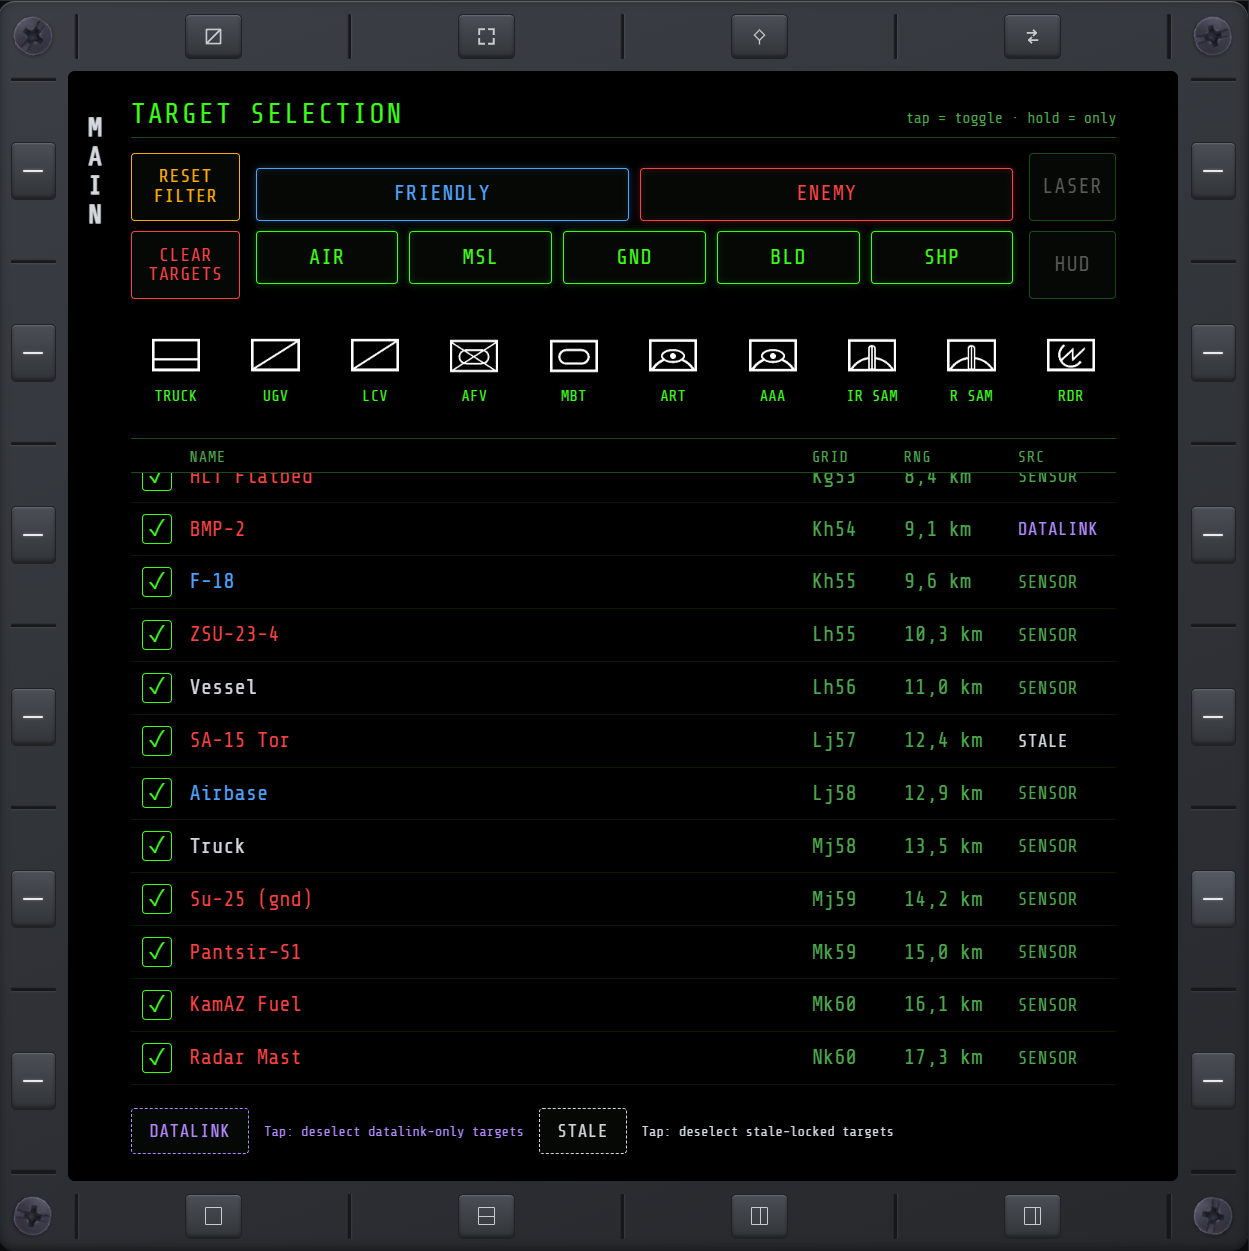
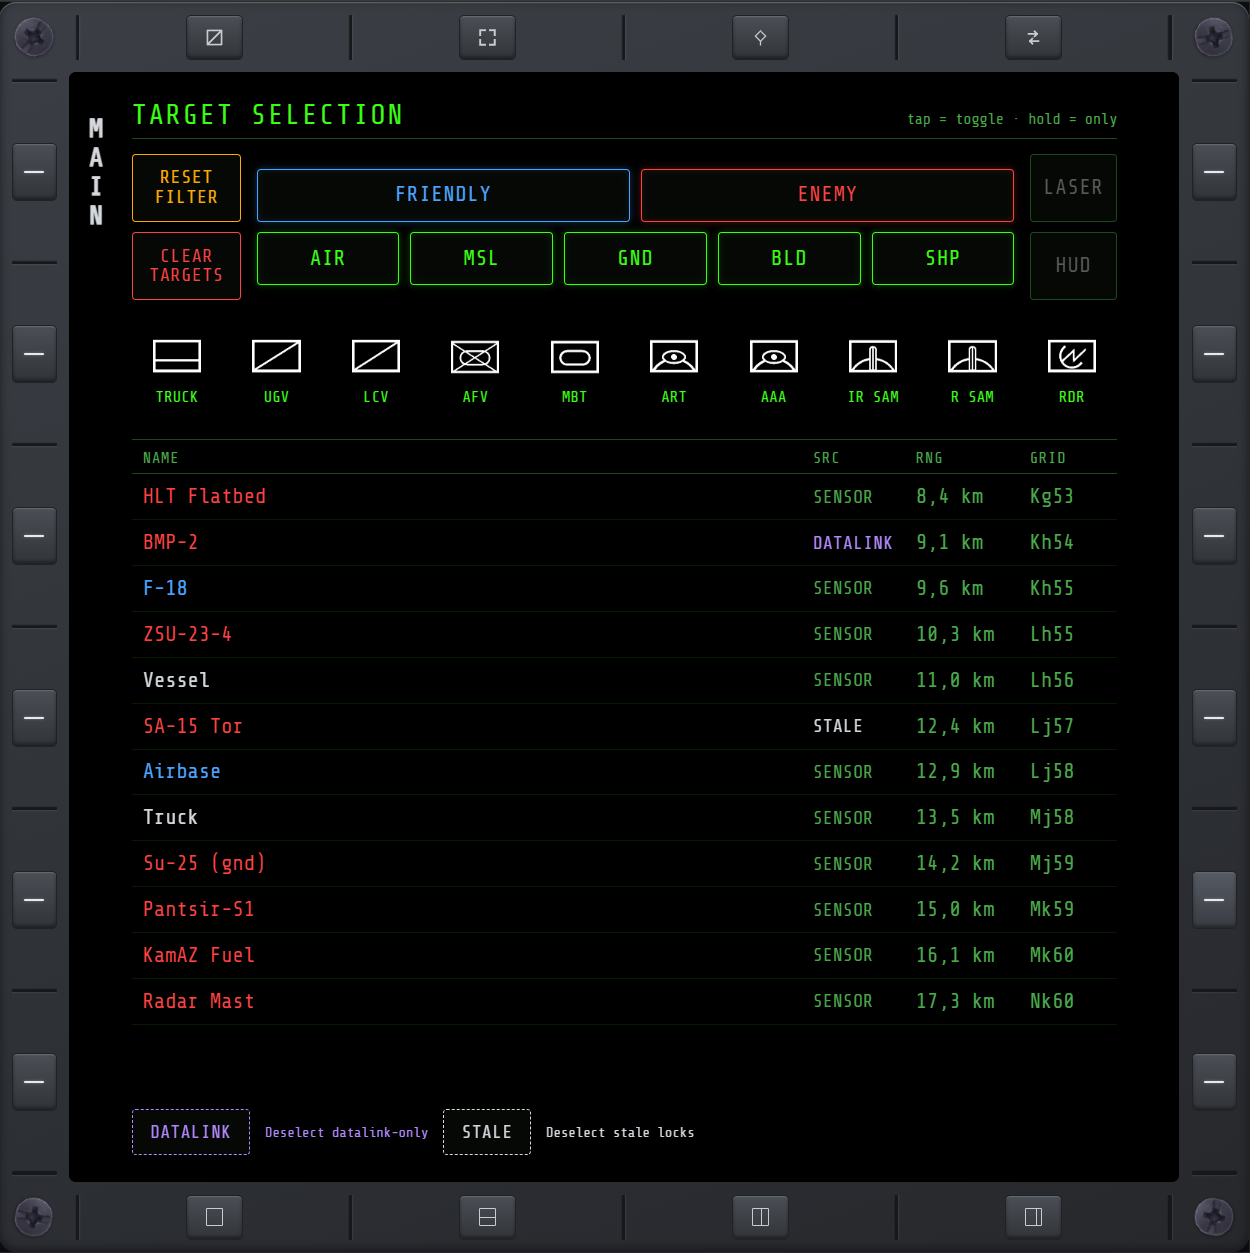
TGT: responsive target list — drop checkbox, overflow instead of squeeze
The checkbox was purely decorative (the whole row has deselected the
target for a while); removed it and its column. Head+rows now scroll
both axes inside .tgt-list-scroll instead of the columns compressing
unreadably thin on a narrow panel (small-screen F-35) — the header
stays position:sticky within the scroller so it tracks the rows
horizontally while staying pinned vertically. Columns reordered to
NAME/SRC/RNG/GRID, and the DATALINK/STALE footer descriptions are
shorter so they don't collapse as badly either.

diff --git a/src/web/pages/tgt/tgt.css b/src/web/pages/tgt/tgt.css
@@ -132,41 +132,55 @@ html, body {
   border-top: 1px solid var(--no-green-dark);
   padding-top: clamp(3px, 0.8vh, 7px);
 }
-/* Shared 5-column track: [checkbox] [name grows] [grid] [range] [source]. Head + rows use the same
-   grid so the columns line up. */
-.tgt-list-head, .tl-row {
-  display: grid;
-  /* Viewport-based column widths (not auto) so the header and the rows — separate grids — compute
-     identical tracks and line up. minmax(0,1fr) lets the name shrink so its ellipsis kicks in. */
-  grid-template-columns: clamp(20px, 3.4vmin, 26px) minmax(0, 1fr) clamp(46px, 7vw, 76px) clamp(60px, 9vw, 96px) clamp(52px, 8vw, 86px);
-  gap: clamp(6px, 1.4vw, 14px);
-  align-items: center;
-}
-.tgt-list-head {
-  padding: 0 clamp(4px, 1vw, 10px) clamp(2px, 0.6vh, 5px);
-  color: var(--no-green-dim);
-  font-size: clamp(9px, 1.4vmin, 13px);
-  letter-spacing: 0.06em;
-  border-bottom: 1px solid var(--no-green-dark);
-}
-.tgt-list-rows {
+/* .tgt-list-scroll owns the scrolling (both axes) so a narrow panel overflows horizontally instead
+   of squeezing the columns unreadably thin — .tgt-list-head/.tl-row below give the NAME column a
+   real floor (not 0) so the row has a genuine minimum width to overflow at. .tgt-list-head is
+   sticky within this scroller: pinned vertically like before, but still pans with the rows
+   horizontally so the labels stay lined up over their column. */
+.tgt-list-scroll {
   flex: 1 1 auto;
-  overflow-y: auto;
+  min-height: 0;
+  display: flex; flex-direction: column;   /* stacks head/rows/empty-note; overflow scrolls the lot */
+  overflow: auto;
   /* Match the thin overlay scrollbar a touch device draws, not the desktop default's chunky bar with
      its light track: a slim grey thumb on a transparent track. scrollbar-* covers Firefox + the
      standard; the ::-webkit rules below cover Chrome / Edge / Safari. */
   scrollbar-width: thin;
   scrollbar-color: var(--no-gray) transparent;
 }
-.tgt-list-rows::-webkit-scrollbar { width: 6px; height: 6px; }
-.tgt-list-rows::-webkit-scrollbar-track { background: transparent; }
-.tgt-list-rows::-webkit-scrollbar-thumb { background: var(--no-gray); border-radius: 3px; }
-.tgt-list-rows:empty { flex: 0 0 auto; }   /* collapse when empty so the empty-note fills + centers */
+.tgt-list-scroll::-webkit-scrollbar { width: 6px; height: 6px; }
+.tgt-list-scroll::-webkit-scrollbar-track { background: transparent; }
+.tgt-list-scroll::-webkit-scrollbar-thumb { background: var(--no-gray); border-radius: 3px; }
+/* Shared 4-column track: [name grows] [source] [range] [grid]. Head + rows use the same grid so the
+   columns line up. minmax(90px, 1fr) still lets NAME grow on a wide panel, but never below a
+   readable floor — once the other three tracks' floors plus this one exceed the scroller's width,
+   the row overflows it rather than compressing further. */
+.tgt-list-head, .tl-row {
+  display: grid;
+  grid-template-columns: minmax(90px, 1fr) clamp(52px, 8vw, 86px) clamp(60px, 9vw, 96px) clamp(46px, 7vw, 76px);
+  gap: clamp(6px, 1.4vw, 14px);
+  align-items: center;
+  /* Sum of the four columns' floors + 3 gap floors (90+52+60+46 + 3*6). Both are flex items of
+     .tgt-list-scroll (flex-direction: column), which stretches its children to its own width by
+     default — without this they'd shrink below their grid tracks' own minimums instead of the
+     scroller overflowing, undoing the point of giving NAME a real floor above. */
+  min-width: 266px;
+}
+.tgt-list-head {
+  position: sticky;
+  top: 0;
+  background: var(--no-bg);
+  padding: 0 clamp(4px, 1vw, 10px) clamp(2px, 0.6vh, 5px);
+  color: var(--no-green-dim);
+  font-size: clamp(9px, 1.4vmin, 13px);
+  letter-spacing: 0.06em;
+  border-bottom: 1px solid var(--no-green-dark);
+}
 .tl-row {
   padding: clamp(4px, 1vh, 9px) clamp(4px, 1vw, 10px);
   border-bottom: 1px solid rgba(57,255,20,0.10);
   font-size: clamp(11px, 1.9vmin, 18px);
-  cursor: pointer;   /* the whole row deselects now, not just the checkbox */
+  cursor: pointer;   /* the whole row deselects it */
 }
 .tl-name { overflow: hidden; text-overflow: ellipsis; white-space: nowrap; }
 .tl-grid, .tl-dist { color: var(--no-green-dim); font-variant-numeric: tabular-nums; white-space: nowrap; }
@@ -186,19 +200,6 @@ html, body {
    .pad-hover's transient overlay) since it has to stay legible while the crosshair itself is hidden.
    --no-amber matches its existing "selected/waiting state" meaning elsewhere in the theme. */
 .tl-row.nav-highlight { outline: 2px solid var(--no-amber); outline-offset: -2px; background: rgba(255,170,0,0.10); }
-
-/* Checkbox: selected targets are all checked; tapping it deselects (the row drops on the next
-   telemetry frame). Sized for a comfortable touch target. */
-.tl-check {
-  width: clamp(18px, 3vmin, 24px); height: clamp(18px, 3vmin, 24px);
-  border: 1.5px solid var(--no-green); border-radius: 3px;
-  display: inline-flex; align-items: center; justify-content: center;
-  color: var(--no-green); cursor: pointer;
-  font-size: clamp(12px, 2.2vmin, 18px); line-height: 1;
-  -webkit-user-select: none; user-select: none;
-}
-.tl-check::after { content: '\2713'; }          /* ✓ — always shown; the row IS the selection */
-.tl-check:active { background: rgba(57,255,20,0.15); }
 
 .tgt-list-empty {
   flex: 1 1 auto;

diff --git a/src/web/pages/tgt/tgt.html b/src/web/pages/tgt/tgt.html
@@ -23,7 +23,7 @@
     long-press a filter → "only this" (tgt.only {group,index}) — isolate it in its group
     RESET FILTER        → tgt.reset   (all filters back on)
     CLEAR TARGETS       → tgt.clear   (deselect every target)
-    tap a target's row  → deselect it (target.deselect {id}) — the whole row, not just the checkbox
+    tap a target's row  → deselect it (target.deselect {id}) — anywhere on the row, no checkbox
 
   SRC column: SENSOR (live), DATALINK (relayed, still trustworthy), or STALE (relayed, no longer
   trustworthy — the same drift-past-threshold check that pops the "?" on the game's own TGP;
@@ -82,22 +82,27 @@
 
     <div class="tgt-vehicles" id="row-vehicle"></div>
 
-    <!-- Selected-target list: NAME / GRID / RNG / SRC per row. The whole row is clickable (not just
-         the checkbox — a bigger, easier touch/cursor target) and deselects that target. -->
+    <!-- Selected-target list: NAME / SRC / RNG / GRID per row. The whole row is clickable and
+         deselects that target — no checkbox, the row itself already reads as "this is selected".
+         .tgt-list-scroll scrolls both axes so a narrow panel (small-screen F-35) overflows instead
+         of squeezing columns unreadably thin; .tgt-list-head is sticky within it so the header stays
+         put vertically but still tracks the rows horizontally. -->
     <div class="tgt-list" id="tgt-list">
-      <div class="tgt-list-head">
-        <span></span><span>NAME</span><span>GRID</span><span>RNG</span><span>SRC</span>
+      <div class="tgt-list-scroll">
+        <div class="tgt-list-head">
+          <span>NAME</span><span>SRC</span><span>RNG</span><span>GRID</span>
+        </div>
+        <div class="tgt-list-rows" id="tgt-list-rows"></div>
+        <div class="tgt-list-empty" id="tgt-list-empty">&mdash; NO TARGETS SELECTED &mdash;</div>
       </div>
-      <div class="tgt-list-rows" id="tgt-list-rows"></div>
-      <div class="tgt-list-empty" id="tgt-list-empty">&mdash; NO TARGETS SELECTED &mdash;</div>
     </div>
 
     <!-- DATALINK / STALE: mod-only, not real TargetListSelector filters — see the header comment above. -->
     <div class="tgt-footer">
       <button class="tgt-datalink-btn pad-hoverable" id="datalink-btn">DATALINK</button>
-      <span class="tgt-datalink-desc">Tap: deselect datalink-only targets</span>
+      <span class="tgt-datalink-desc">Deselect datalink-only</span>
       <button class="tgt-stale-btn pad-hoverable" id="stale-btn">STALE</button>
-      <span class="tgt-stale-desc">Tap: deselect stale-locked targets</span>
+      <span class="tgt-stale-desc">Deselect stale locks</span>
     </div>
 
     <!-- PAD cursor (docs/page-cursor.md) — same crosshair/transport MAP uses, driven here only

diff --git a/src/web/pages/tgt/tgt.js b/src/web/pages/tgt/tgt.js
@@ -123,13 +123,11 @@ function renderTargets() {
       row.dataset.id = t.id;
       row.setAttribute('role', 'checkbox'); row.setAttribute('aria-checked', 'true');
       row.setAttribute('aria-label', 'deselect'); row.tabIndex = 0;
-      const chk = document.createElement('span');
-      chk.className = 'tl-check';   // still the visual check mark — the whole row is the click target now
       const name = document.createElement('span'); name.className = 'tl-name';
-      const grid = document.createElement('span'); grid.className = 'tl-grid';
-      const dist = document.createElement('span'); dist.className = 'tl-dist';
       const src  = document.createElement('span'); src.className = 'tl-src';
-      row.appendChild(chk); row.appendChild(name); row.appendChild(grid); row.appendChild(dist); row.appendChild(src);
+      const dist = document.createElement('span'); dist.className = 'tl-dist';
+      const grid = document.createElement('span'); grid.className = 'tl-grid';
+      row.appendChild(name); row.appendChild(src); row.appendChild(dist); row.appendChild(grid);
       listRows.appendChild(row);
     });
   }
